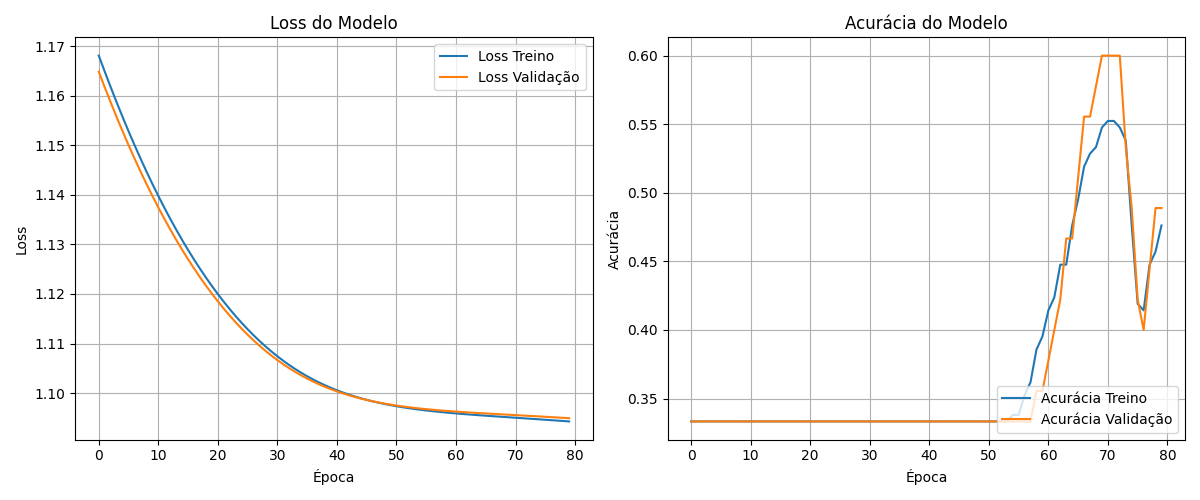
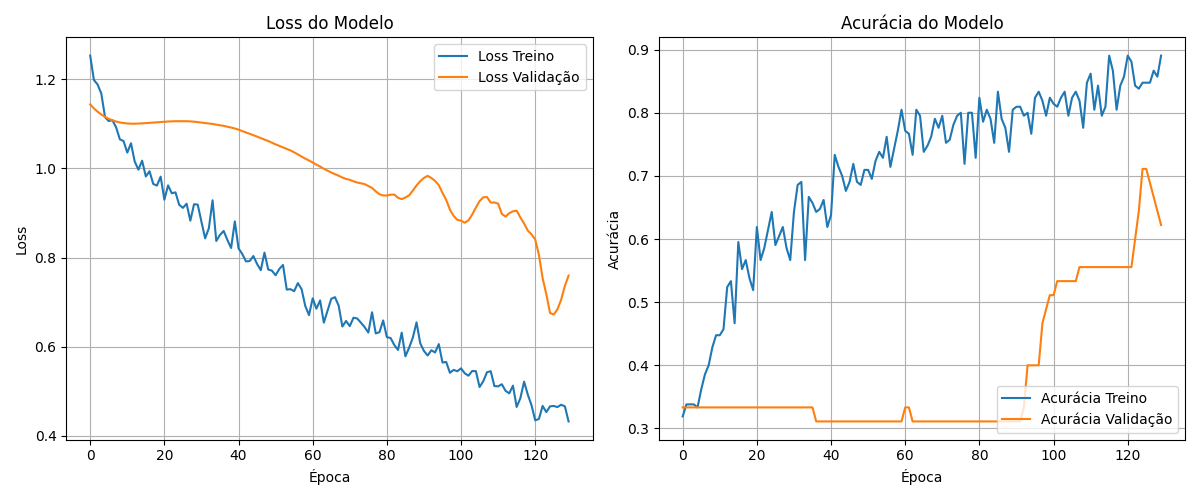
managed higher accuracy but still having problems with overfitting during training vs. validation

diff --git a/src/dnn_model.py b/src/dnn_model.py
@@ -3,6 +3,7 @@
 import tensorflow as tf
 from tensorflow import keras
 from tensorflow.keras import layers
+from tensorflow.keras.optimizers import Adam
 
 def build_dnn_model(num_selected_features, num_classes=3, jit_compile_dnn=False):
     """
@@ -44,10 +45,13 @@ def build_dnn_model(num_selected_features, num_classes=3, jit_compile_dnn=False)
         model.add(layers.Dropout(0.1, name="Hidden_Layer_3_Dropout"))
 
     model.add(layers.Dense(num_classes, activation='softmax', name="Output_Layer"))
-
-    model.compile(optimizer='adam',
-                  loss='sparse_categorical_crossentropy', # Apropriado para rótulos inteiros
-                  metrics=['accuracy'], jit_compile=jit_compile_dnn)
+    opt = Adam(learning_rate=0.0009)
+    model.compile(
+        optimizer=opt,
+        loss="sparse_categorical_crossentropy",
+        metrics=["accuracy"],
+        jit_compile=jit_compile_dnn,
+    )
 
     ##model.summary()
     return model

diff --git a/main.py b/main.py
@@ -54,7 +54,7 @@ TEST_SIZE = 0.15
 VAL_SIZE = 0.15 # Usado dentro da função de fitness e para otimização
 
 # Parâmetros da DNN para Fitness e Treino Final
-DNN_TRAINING_PARAMS_FITNESS = {'epochs': 120, 'batch_size': 64, 'patience': 25} # Para fitness (mais rápido)
+DNN_TRAINING_PARAMS_FITNESS = {'epochs': 130, 'batch_size': 96, 'patience': 25} # Para fitness (mais rápido)
 DNN_TRAINING_PARAMS_FINAL = {'epochs': 250, 'batch_size': 128, 'patience': 30} # Para treino final (mais robusto)
 # Foi usado EarlyStopping com val_split para o treino final.
 
